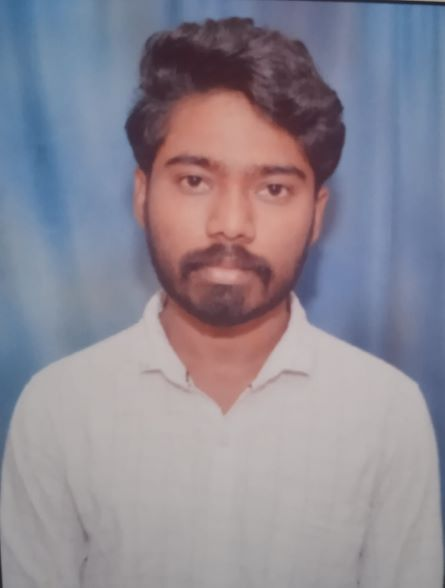
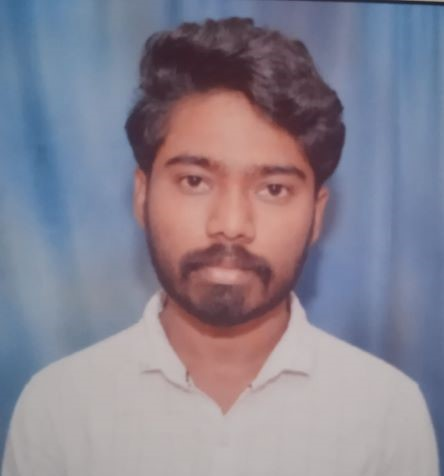
portdolioupdated

diff --git a/src/index.html b/src/index.html
@@ -101,31 +101,34 @@
 
 		<section id="project" class="project">
 			<h2 class="section-title">Projects</h2>
-<!-- 
+
 			<div class="project-container">
-				<img class="prImg" src="./assets/images/ikea-home.jpg" alt="ikea" />
+				<img class="prImg" src="./assets/images/Lumen5.png" alt="ikea" />
 
 				<div class="project-content">
-					<h3>Clone of IKEA website</h3>
+					<h3>Clone of Lumen5 website</h3>
 					<p>
-						A pixel-perfect clone of www.ikea.co.in which is an International
-						E-commerce website.
+						Lumen5 combines powerful A.I. with a simple drag-and-drop interface to help you create professional video content in minutes.
 					</p>
 
 					<ul class="project-skill">
+						<li>HTML</li>
+						<li>CSS</li>
 						<li>JavaScript</li>
 						<li>React.js</li>
+						<li>Redux</li>
+						<li>Chakra-UI</li>
 
-						<li>Node.js</li>
+						<!-- <li>Node.js</li> -->
 
-						<li>MongoDB</li>
-						<li>Redis</li>
+						<!-- <li>MongoDB</li> -->
+						<!-- <li>Redis</li> -->
 					</ul>
 
 					<ul class="project-link">
 						<li>
 							<a
-								href="https://github.com/HanumaraddiBV/IKEA-India"
+								href="https://github.com/Rahul850kr/Lumen5-Clone-Project"
 								aria-label="Source code"
 								target="_blank"
 								title="source code"
@@ -135,7 +138,7 @@
 						</li>
 						<li>
 							<a
-								href="https://ikea-clone-frontend-masai.herokuapp.com/home.html"
+								href="https://lumen5-clone-project.netlify.app/"
 								aria-label="Preview"
 								target="_blank"
 								title="preview"
@@ -148,7 +151,7 @@
 						</li>
 					</ul>
 				</div>
-			</div> -->
+			</div>
 			<div class="project-container">
 				<img
 					class="prImg"
@@ -159,7 +162,7 @@
 				<div class="project-content">
 					<h3>Clone of Bobby-Brown website</h3>
 					<p>
-						Bobby-Brown is a e-commerce website that sells skincare and makeup products
+						Bobby-Brown is a e-commerce website that sells skincare and makeup
 						products all over the world.
 					</p>
 
@@ -182,7 +185,7 @@
 						</li>
 						<li>
 							<a
-								href="https://github.com/G-LalithSai/Bobbi-brown-clone"
+								href="https://g-lalithsai.github.io/Bobbi-brown-clone/"
 								aria-label="Preview"
 								target="_blank"
 								title="preview"

diff --git a/src/styles/index.css b/src/styles/index.css
@@ -152,18 +152,35 @@ a {
 	h1 {
 		font-size: 4rem;
 	}
+	/* .hero{
+		margin-top: 16rem;
+	} */
 }
 
 @media (max-width: 580px) {
 	h2 {
 		font-size: 1.5rem;
 	}
+	/* .hero{
+		margin-top: 6em;
+	} */
 }
 
 @media (max-width: 320px) {
 	h1 {
 		font-size: 3rem;
 	}
+	#top{
+		margin-bottom: 20px;
+	}
+	/* .hero{
+		margin-top: 6em;
+	}
+	.hero-about{
+		margin-top: 6em; */
+		/* border: 1px solid black; */
+	
+	/* } */
 }
 
 /* =============
@@ -385,6 +402,7 @@ footer small {
 		max-height: 100%;
 		margin: 0 auto;
 		margin-bottom: 2em;
+		object-fit: cover;
 	}
 
 	.project-content {
@@ -416,9 +434,8 @@ footer small {
 	}
 
 	.hero,
-	.hero-about,
-	section {
-		margin-top: 2.5em;
+	.hero-about {
+		margin-top: 6em;
 	}
 
 	.hero {
@@ -576,6 +593,7 @@ nav .link {
 	.fa-bars {
 		display: flex;
 	}
+	
 }
 
 .prImg {
@@ -583,18 +601,22 @@ nav .link {
 	height: 250px;
 }
 #profile_img {
-	width: 100%;
-	height: 100%;
-	border-radius: 130px;
+	width: 250px;
+	height: 270px;
+	border-radius:50%;
 	
+	object-fit: cover;
 }
 #profile_div {
 	margin-bottom: 40px;
 	width: 250px;
-	height: 230px;
+	height: 270px;
 	margin-left: 95px;
-	margin-top: 70px;
-	border-radius: 130px;
+	margin-top: 60px;
+	
+	border-radius:50%;
+	
+
 }
 #nav-bar {
 	position: fixed;
@@ -614,7 +636,7 @@ nav .link {
 
 #top {
 	position: fixed;
-	top: 0;
+	top: 0px;
 	left: 10px;
 
 	opacity: 0.8;
